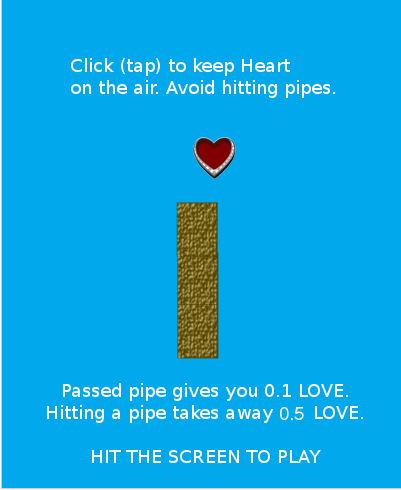
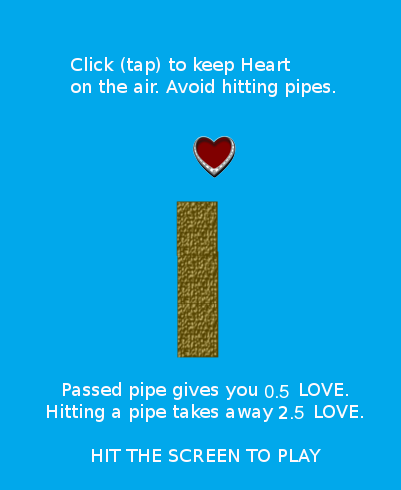
rewards + time limit changed

diff --git a/heartgame/main.js b/heartgame/main.js
@@ -73,7 +73,7 @@ Heart.Game.prototype = {
 			if (i != hole && i != hole + 1 && i != hole - 1)
 				this.addPipe(400, i * 60);
 		}
-		this.game.score += 0.1;
+		this.game.score += 0.5;
 		this.labelScore.text = this.game.score.toFixed(1);
 	},
 
@@ -81,12 +81,7 @@ Heart.Game.prototype = {
     
     	if (this.heart.alive == false)
         	return;
-    	/*
-    	this.game.time.events.add(2000, function() {
-   		this.game.add.tween(hitText).to({y: 0}, 1500, Phaser.Easing.Linear.None, true);
-    	this.game.add.tween(hitText).to({alpha: 0}, 1500, Phaser.Easing.Linear.None, true);
-		}, this);
-		*/
+    	
     	this.heart.alive = false;
     	bounceSound.play();
    	 	this.game.time.events.remove(this.timer);
@@ -95,7 +90,7 @@ Heart.Game.prototype = {
     	this.pipes.forEachAlive(function(p){
         	p.body.velocity.x = 0;
     	}, 	this);
-    	this.game.score -= 0.5;
+    	this.game.score -= 2.5;
     	if (this.game.score < 0) this.game.score = 0;
 		this.labelScore.text = this.game.score.toFixed(1);
 		initScore = this.game.score;

diff --git a/heartgame/index.php b/heartgame/index.php
@@ -57,7 +57,7 @@ if(isset($_GET['address'])){
         $error = "The address you entered is invalid.";
         break;
       case 2:
-        $error = "Sorry, but you've already had coins in the last 12 hours.";
+        $error = "Sorry, but you've already had coins in the last 2 hours.";
         break;
       case 3:
         $error = "There aren't enough coins in the faucets wallet for us to drip you some.";

diff --git a/index.php b/index.php
@@ -24,7 +24,7 @@ if(isset($_POST['submit'])){
 					$error_msg = "The address you entered is invalid.";
 					break;
 				case 2:
-					$error_msg = "Sorry, but you've already had coins in the last 12 hours.";
+					$error_msg = "Sorry, but you've already had coins in the last 2 hours.";
 					break;
 				case 3:
 					$error_msg = "There aren't enough coins in the faucets wallet for us to drip you some.";
